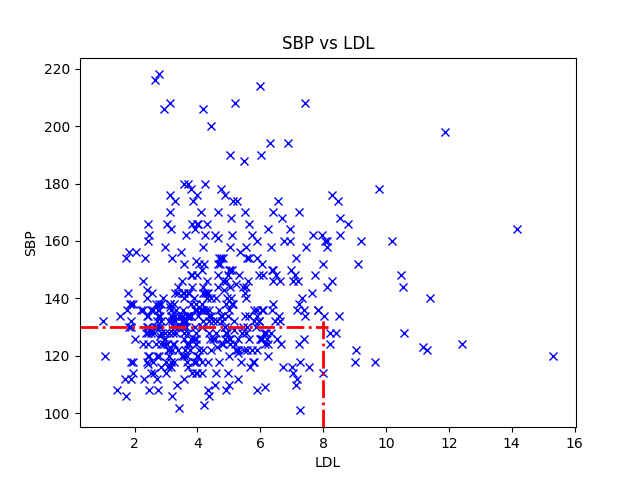
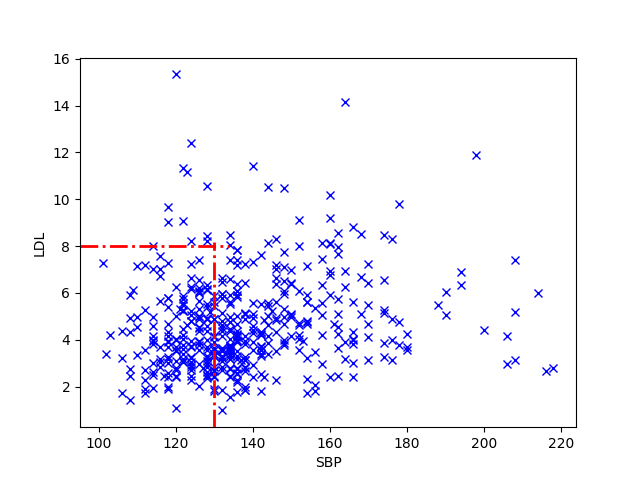
fix image

diff --git a/EAC 1/E.py b/EAC 1/E.py
@@ -15,12 +15,11 @@ file.write("Proporción de muestras:\n")
 file.write(str(round(count/len(sbp)*100, 4)) + "%\n")
 
 for i in range(0, len(sbp)):
-    plt.plot(ldl[i], sbp[i], 'x',color='blue')
-plt.xlabel('LDL')
-plt.ylabel('SBP')
-plt.title("SBP vs LDL")
+    plt.plot(sbp[i], ldl[i], 'x',color='blue')
+plt.xlabel('SBP')
+plt.ylabel('LDL')
 
-plt.axhline(y=130, xmin=0, xmax=0.5, color='r', linestyle='-.', linewidth=2) # Plot a horizontal line using axhline() in pyplot
-plt.axvline(x=8, ymin=0, ymax=0.3, color='r', linestyle='-.', linewidth=2)  # Plot a vertical line using axvline() in pyplot
+plt.axhline(y=8, xmin=0, xmax=0.3, color='r', linestyle='-.', linewidth=2) # Plot a horizontal line using axhline() in pyplot
+plt.axvline(x=130, ymin=0, ymax=0.5, color='r', linestyle='-.', linewidth=2)  # Plot a vertical line using axvline() in pyplot
 plt.savefig("E Gráficos\\"+"SBPvsLDL"+".png")
 plt.show()
